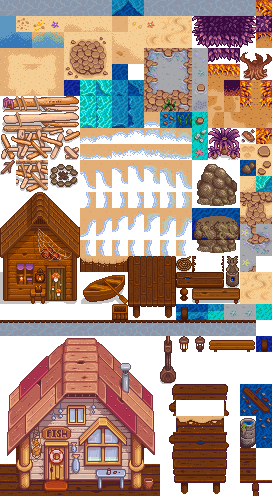
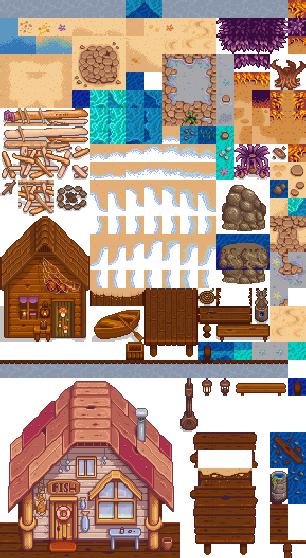
Bounding Camera, Energy Bar HUD updated, Time Model HUD updated, Spawn Point switched

diff --git a/Resources/World/beach/fall_beach..png.tsx b/Resources/World/beach/fall_beach..png.tsx
@@ -1,4 +1,4 @@
 <?xml version="1.0" encoding="UTF-8"?>
-<tileset version="1.10" tiledversion="1.11.0" name="fall_beach" tilewidth="16" tileheight="16" tilecount="527" columns="17">
- <image source="./fall_beach..png" trans="ff00ff" width="272" height="496"/>
+<tileset version="1.10" tiledversion="1.11.0" name="fall_beach." tilewidth="16" tileheight="16" spacing="2" margin="1" tilecount="527" columns="17">
+ <image source="fall_beach..png" trans="ff00ff" width="306" height="558"/>
 </tileset>

diff --git a/Classes/SceneManagement/MainMenuScene.cpp b/Classes/SceneManagement/MainMenuScene.cpp
@@ -1,9 +1,10 @@
 #include "SceneManager.h"
 #include "MainMenuScene.h"
 #include "UI/HoverButton.h"
-#include "FarmYardScene.h"
+#include "GameScene.h"
 // #include "../Music/AudioPlayer.h"
 #include "ResourceManagement/Constant.h"
+#include "Beach.h"
 
 USING_NS_CC;
 
@@ -49,7 +50,7 @@ bool MainMenuScene::init()
 	// 为按钮添加事件处理器
 	newGameButton->addTouchEventListener([](Ref* sender, cocos2d::ui::Widget::TouchEventType type) {
 		if (type == cocos2d::ui::Widget::TouchEventType::BEGAN) {
-			auto scene = FarmYardScene::createScene();
+			auto scene = Beach::createScene();
 			SceneManager::setSceneTransition(cocos2d::TransitionFade::create(SCENE_TRANSITION_DURATION, scene, cocos2d::Color3B::WHITE));
 			SceneManager::switchToScene(scene);
 		}

diff --git a/Classes/SceneManagement/FarmYard.cpp b/Classes/SceneManagement/FarmYard.cpp
@@ -1,4 +1,5 @@
-#include "FarmYardScene.h"
+#include "FarmYard.h"
+
 #include "InputControl/InputManager.h"
 #include "Player/PlayerController.h"
 #include "UI/UIManager.h"
@@ -6,16 +7,16 @@
 USING_NS_CC;
 
 
-Scene* FarmYardScene::createScene()
+Scene* FarmYard::createScene()
 {
 	auto scene = Scene::create();
-	auto layer = FarmYardScene::create();
+	auto layer = FarmYard::create();
 	scene->addChild(layer);
 	return scene;
 }
 
-void FarmYardScene::initConstants()
+void FarmYard::initConstants()
 {
-	sceneName = "FarmYard";
+	mapName = MapName::FarmYard;
 	tileMapPath = Texture::Beach;
 }

diff --git a/Classes/ResourceManagement/ResourceManager.h b/Classes/ResourceManagement/ResourceManager.h
@@ -45,7 +45,7 @@ public:
     inline cocos2d::Sprite* getItem(std::string name);
     cocos2d::Sprite* getBlock(Block::id id);
     inline cocos2d::Sprite* getBlock(std::string name);
-    cocos2d::Label* getLabel(const std::string& text);
+    cocos2d::Label* getLabel(const std::string& text, const int SystemFontSize = 24);
     cocos2d::ui::Button* getButton(ButtonType bfd);
 
 
